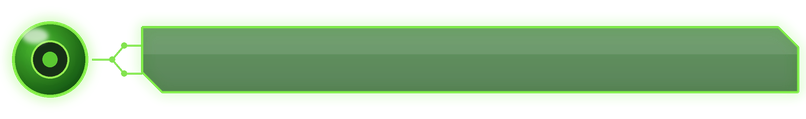
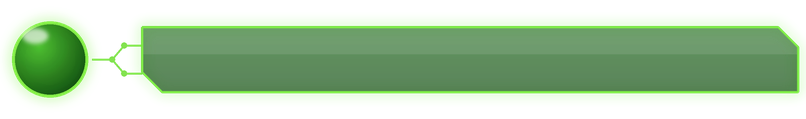
Captures on the home screen; each system's console in its row
- components/captures: a Captures entry with Screenshots and Recordings
  (folders Shots and Clips: Batocera's menu skips links and folders named
  Screenshots), bind-mounted from Batocera's own screenshots and
  recordings folders at every start, opened with its image viewer; its
  own Screenshots entry is hidden. Component folders can have a title.
- Theme: the glass sphere of each home-screen row holds the system's
  console (Carbon's pictures, borrowed at run time); drawn icons for the
  Store (download), Apps (tiles) and Captures (camera).

Changed region(s): [[0.031, 0.3277, 0.0931, 0.6555]]

diff --git a/components/look/tools/art.py b/components/look/tools/art.py
@@ -128,8 +128,9 @@ def glass(draw_size, pts, top, bottom, fill_alpha, edge, glow, s, edge_w=2.5, gl
     im.alpha_composite(with_alpha(Image.new("RGB", n, edge), line))
     return im
 
-def pod(im, cx, cy, r, s, bright):
-    """Small glass sphere at the left of each row, with a dark socket in the middle."""
+def pod(im, cx, cy, r, s, bright, socket=True):
+    """Small glass sphere at the left of each row, with a dark socket in the middle (without one,
+    the theme sets the system's own picture into it)."""
     d = ImageDraw.Draw(im); cx, cy, r = cx * s, cy * s, r * s
     ring = Image.new("L", im.size, 0); ImageDraw.Draw(ring).ellipse((cx - r, cy - r, cx + r, cy + r), outline=255, width=3 * s)
     im.alpha_composite(glow_of(ring, (190, 255, 90) if bright else (120, 240, 60), 6 * s, 1.8 if bright else 1.1))
@@ -138,8 +139,9 @@ def pod(im, cx, cy, r, s, bright):
     im.alpha_composite(with_alpha(radial(im.size, (cx - r * 0.3, cy - r * 0.35), r * 1.5, inner, outer), disc, 245))
     d = ImageDraw.Draw(im)
     d.ellipse((cx - r, cy - r, cx + r, cy + r), outline=(215, 255, 150, 255) if bright else (130, 235, 70, 255), width=3 * s)
-    d.ellipse((cx - r * 0.5, cy - r * 0.5, cx + r * 0.5, cy + r * 0.5), fill=(2, 30, 2, 235), outline=(150, 240, 80, 255), width=2 * s)
-    d.ellipse((cx - r * 0.2, cy - r * 0.2, cx + r * 0.2, cy + r * 0.2), fill=(235, 255, 150, 255) if bright else (90, 200, 50, 255))
+    if socket:
+        d.ellipse((cx - r * 0.5, cy - r * 0.5, cx + r * 0.5, cy + r * 0.5), fill=(2, 30, 2, 235), outline=(150, 240, 80, 255), width=2 * s)
+        d.ellipse((cx - r * 0.2, cy - r * 0.2, cx + r * 0.2, cy + r * 0.2), fill=(235, 255, 150, 255) if bright else (90, 200, 50, 255))
     hi = Image.new("L", im.size, 0); ImageDraw.Draw(hi).ellipse((cx - r * 0.72, cy - r * 0.82, cx - r * 0.05, cy - r * 0.42), fill=170)
     im.alpha_composite(with_alpha(Image.new("RGB", im.size, (255, 255, 255)), hi.filter(ImageFilter.GaussianBlur(2 * s))))
 
@@ -156,9 +158,53 @@ def row(name, bright, w=806, h=119):
         glass((w, h), pts, (226, 250, 84), (150, 214, 28), 250, (245, 255, 185), (200, 255, 80), s, 3, 9, 1.9, im)
     else:
         glass((w, h), pts, (22, 110, 18), (6, 58, 6), 170, (120, 228, 66), (110, 240, 60), s, 2.5, 6, 0.9, im)
-    pod(im, 50, y, 38, s, bright)
+    pod(im, 50, y, 38, s, bright, socket=False)
     im.resize((w, h), Image.LANCZOS).save(f"{OUT}/{name}")
 row("row.png", False); row("row_selected.png", True)
+
+def badge(name, draw):
+    """A picture for the sphere of a home-screen row whose system has no console picture in
+    Batocera's Carbon theme: EmuBox's Store and Apps, and a socket for anything else."""
+    s = 4; n = 120; im = Image.new("RGBA", (n * s, n * s), (0, 0, 0, 0)); d = ImageDraw.Draw(im)
+    ink, deep = (236, 255, 170, 255), (2, 30, 2, 235)
+    draw(d, s, ink, deep)
+    im = im.resize((n, n), Image.LANCZOS)
+    glow = glow_of(im.split()[3], (150, 255, 80), 4, 0.9)
+    out = Image.new("RGBA", (n, n), (0, 0, 0, 0)); out.alpha_composite(glow); out.alpha_composite(im)
+    os.makedirs(f"{OUT}/badges", exist_ok=True); out.save(f"{OUT}/badges/{name}.png")
+
+def _download(d, s, ink, deep):          # the Store: an arrow down into a tray
+    w = 7 * s
+    d.line((60 * s, 18 * s, 60 * s, 70 * s), fill=ink, width=w)
+    d.polygon([(36 * s, 52 * s), (84 * s, 52 * s), (60 * s, 80 * s)], fill=ink)
+    d.line([(22 * s, 74 * s), (22 * s, 96 * s), (98 * s, 96 * s), (98 * s, 74 * s)], fill=ink, width=w, joint="curve")
+
+def _tiles(d, s, ink, deep):             # Apps: a grid of rounded tiles
+    for x in (26, 64):
+        for y in (26, 64):
+            d.rounded_rectangle((x * s, y * s, (x + 30) * s, (y + 30) * s), radius=7 * s, fill=ink)
+
+def _socket(d, s, ink, deep):            # anything else: the sphere's old socket
+    d.ellipse((38 * s, 38 * s, 82 * s, 82 * s), fill=deep, outline=(150, 240, 80, 255), width=3 * s)
+    d.ellipse((52 * s, 52 * s, 68 * s, 68 * s), fill=(150, 240, 80, 255))
+
+def _camera(d, s, ink, deep):            # Captures: a camera
+    d.rounded_rectangle((16 * s, 36 * s, 104 * s, 94 * s), radius=10 * s, fill=ink)
+    d.rectangle((40 * s, 26 * s, 66 * s, 38 * s), fill=ink)
+    d.ellipse((42 * s, 44 * s, 78 * s, 80 * s), fill=deep)
+    d.ellipse((51 * s, 53 * s, 69 * s, 71 * s), fill=ink)
+
+def _film(d, s, ink, deep):              # Recordings: a strip of film with a record dot
+    d.rounded_rectangle((14 * s, 30 * s, 106 * s, 90 * s), radius=8 * s, fill=ink)
+    for x in range(22, 104, 14):
+        d.rectangle((x * s, 34 * s, (x + 7) * s, 40 * s), fill=deep)
+        d.rectangle((x * s, 80 * s, (x + 7) * s, 86 * s), fill=deep)
+    d.ellipse((47 * s, 47 * s, 73 * s, 73 * s), fill=(214, 40, 30, 255))
+
+badge("store", _download); badge("apps", _tiles); badge("default", _socket); badge("captures", _camera)
+# The two folders of Captures get the same pictures (camera, film), larger, for the list's media panel.
+for folder, draw in (("screenshots", _camera), ("recordings", _film)):
+    badge(f"folder-{folder}", draw)
 
 def shape(name, w, h, cut, top, bottom, alpha, edge=(130, 232, 70), glow=(110, 240, 60), strength=1.1, tab=0):
     s = 2; pts = cut_poly(8, 8, w - 8, h - 8, cut)
@@ -269,4 +315,5 @@ def system_logo(system, text):
     image.save(f"{OUT}/logos/{system}.png")
 system_logo("store", "STORE")
 system_logo("apps", "APPS")
+system_logo("captures", "CAPTURES")
 print("art written (sounds: see sounds.py)")

diff --git a/tests/test_installer.py b/tests/test_installer.py
@@ -26,7 +26,7 @@ from installer.target import Target  # noqa: E402
 
 os.environ["EMUBOX_DOWNLOAD_LATER"] = "1"   # the tests never fetch programs from Flathub
 os.environ["EMUBOX_SOUNDS"] = "none"        # nor pick up sound sets that happen to sit beside the repository
-COMPONENT_QUESTIONS = 12   # asked on a PC without the OMEN lights
+COMPONENT_QUESTIONS = 13   # asked on a PC without the OMEN lights
 
 
 def make_drive(root: Path) -> Target:
@@ -269,7 +269,7 @@ class ComponentTests(Drive):
              mock.patch.object(cli, "SOUNDS_BESIDE", Path(folder) / "nowhere"):
             make_file(Path(folder) / "mine" / "Arcade" / "scroll.wav")
             # look n, apple-music n, discord y, seven more n, bios n, games n, sounds y + folder, go ahead y
-            code, out = run(self.root, answers="n\nn\ny\n" + "n\n" * 9 + "n\nn\ny\n" + f"{folder}/mine\ny\n")
+            code, out = run(self.root, answers="n\nn\ny\n" + "n\n" * 10 + "n\nn\ny\n" + f"{folder}/mine\ny\n")
             self.assertEqual(code, 0, out)
             self.assertIn("scroll.wav", out)      # the names are explained when asked
             self.assertIn("Arcade", out)
@@ -308,7 +308,7 @@ class ComponentTests(Drive):
 
     def test_questions_are_asked_and_answered(self):
         # look n, apple-music n, discord y, seven more n, bios n, games n, go ahead y
-        code, out = run(self.root, answers="n\nn\ny\n" + "n\n" * 9 + "n\nn\ny\n")
+        code, out = run(self.root, answers="n\nn\ny\n" + "n\n" * 10 + "n\nn\ny\n")
         self.assertEqual(code, 0, out)
         self.assertTrue((self.root / "roms/apps/Discord.sh").exists())
         self.assertFalse((self.root / "themes/emubox").exists())
@@ -317,7 +317,7 @@ class ComponentTests(Drive):
 class TypedAnswerTests(Drive):
     def test_wifi_is_asked_for_and_written(self):
         # look, apple-music, discord, store, vault n; wifi y + name + password; four more n; bios n, games n; go ahead y
-        code, out = run(self.root, answers="n\nn\nn\nn\nn\ny\nHome Net\np@ss {word}\n" + "n\n" * 6 + "n\nn\ny\n")
+        code, out = run(self.root, answers="n\nn\nn\nn\nn\ny\nHome Net\np@ss {word}\n" + "n\n" * 7 + "n\nn\ny\n")
         self.assertEqual(code, 0, out)
         self.assertEqual(self.target.conf_get("wifi.ssid"), "Home Net")
         self.assertEqual(self.target.conf_get("wifi.key"), "p@ss {word}")
@@ -539,6 +539,22 @@ class NiceNames(unittest.TestCase):
         make_file(self.root / "roms/apps/Apple_Music.sh")
         self.assertEqual(self.nn.run(self.root, say=lambda _: None), 0)
         self.assertFalse((self.root / "roms/apps/gamelist.xml").exists())
+
+
+class CapturesTests(Drive):
+    def test_captures_folders_titles_and_hidden_screenshots_entry(self):
+        (self.root / "roms/captures").mkdir(parents=True)
+        os.symlink("/userdata/screenshots", self.root / "roms/captures/Screenshots")   # an earlier layout
+        code, out = run(self.root, "--yes", "--with", "captures")
+        self.assertEqual(code, 0, out)
+        for name in ("Shots", "Clips"):
+            self.assertTrue((self.root / "roms/captures" / name).is_dir())
+        self.assertFalse(os.path.lexists(self.root / "roms/captures/Screenshots"))
+        listed = (self.root / "roms/captures/gamelist.xml").read_text()
+        self.assertIn("<name>Screenshots</name>", listed)
+        self.assertIn("<name>Recordings</name>", listed)
+        settings = (self.root / "system/configs/emulationstation/es_settings.cfg").read_text()
+        self.assertIn('name="HiddenSystems" value="imageviewer"', settings)
 
 
 class SmallThings(unittest.TestCase):

diff --git a/components/captures/component.py b/components/captures/component.py
@@ -1,0 +1,43 @@
+"""Captures: the two folders (which the emubox_captures service fills from where Batocera keeps
+screenshots and recordings), and Batocera's own "Screenshots" entry hidden, as the same pictures
+would show twice."""
+import os
+import re
+
+SETTINGS = "system/configs/emulationstation/es_settings.cfg"
+
+
+def _drop_folder_rows(file, paths: set) -> None:
+    import xml.etree.ElementTree as ET
+    if not file.exists():
+        return
+    tree = ET.parse(file)
+    gone = [f for f in tree.getroot().findall("folder") if f.findtext("path") in paths]
+    for folder in gone:
+        tree.getroot().remove(folder)
+    if gone:
+        ET.indent(tree, "\t")
+        tree.write(file, encoding="utf-8", xml_declaration=True)
+
+
+def install(env) -> None:
+    target = env.target
+    for old in ("Screenshots", "Recordings"):    # an earlier version's names (the menu skips "Screenshots")
+        path = target.root / "roms" / "captures" / old    # not target.path(): that follows the link
+        if os.path.islink(path):
+            path.unlink()
+        elif path.is_dir() and not any(path.iterdir()):
+            path.rmdir()
+    _drop_folder_rows(target.path("roms/captures/gamelist.xml"), {"./Screenshots", "./Recordings"})
+    for name, dest in (("Shots", "screenshots"), ("Clips", "recordings")):
+        target.make_dir(target.path(dest))
+        folder = target.path(f"roms/captures/{name}")
+        if os.path.islink(folder):          # an earlier version made links, which the menu skips
+            folder.unlink()
+        target.make_dir(folder)             # filled by the emubox_captures service on Batocera
+    file = target.path(SETTINGS)
+    text = file.read_text() if file.exists() else ""
+    found = re.search(r'name="HiddenSystems" value="([^"]*)"', text)
+    hidden = [s for s in (found.group(1) if found else "").split(";") if s]
+    if "imageviewer" not in hidden:
+        target.es_setting("HiddenSystems", ";".join([*hidden, "imageviewer"]))

diff --git a/installer/components.py b/installer/components.py
@@ -251,8 +251,8 @@ def install(component: Component, env: Env) -> Record:
     for name, folder in spec.get("folders", {}).items():   # a sub-section of a system: its picture and words
         system = f"roms/{folder.get('system', 'ports')}"
         record.files.append(target.copy_file(component.folder / folder["image"], f"{system}/images/{name}.png"))
-        gamelist.set_entry(target.path(f"{system}/gamelist.xml"), name,
-                           {"name": name, "desc": folder.get("description", ""), "image": f"./images/{name}.png"}, tag="folder")
+        gamelist.set_entry(target.path(f"{system}/gamelist.xml"), name,   # "title": shown instead of the folder's name
+                           {"name": folder.get("title", name), "desc": folder.get("description", ""), "image": f"./images/{name}.png"}, tag="folder")
     typed = env.answers.get(component.id, {})
     for key, value in spec.get("batocera_conf", {}).items():
         target.conf_set(key, _fill(value, typed))
